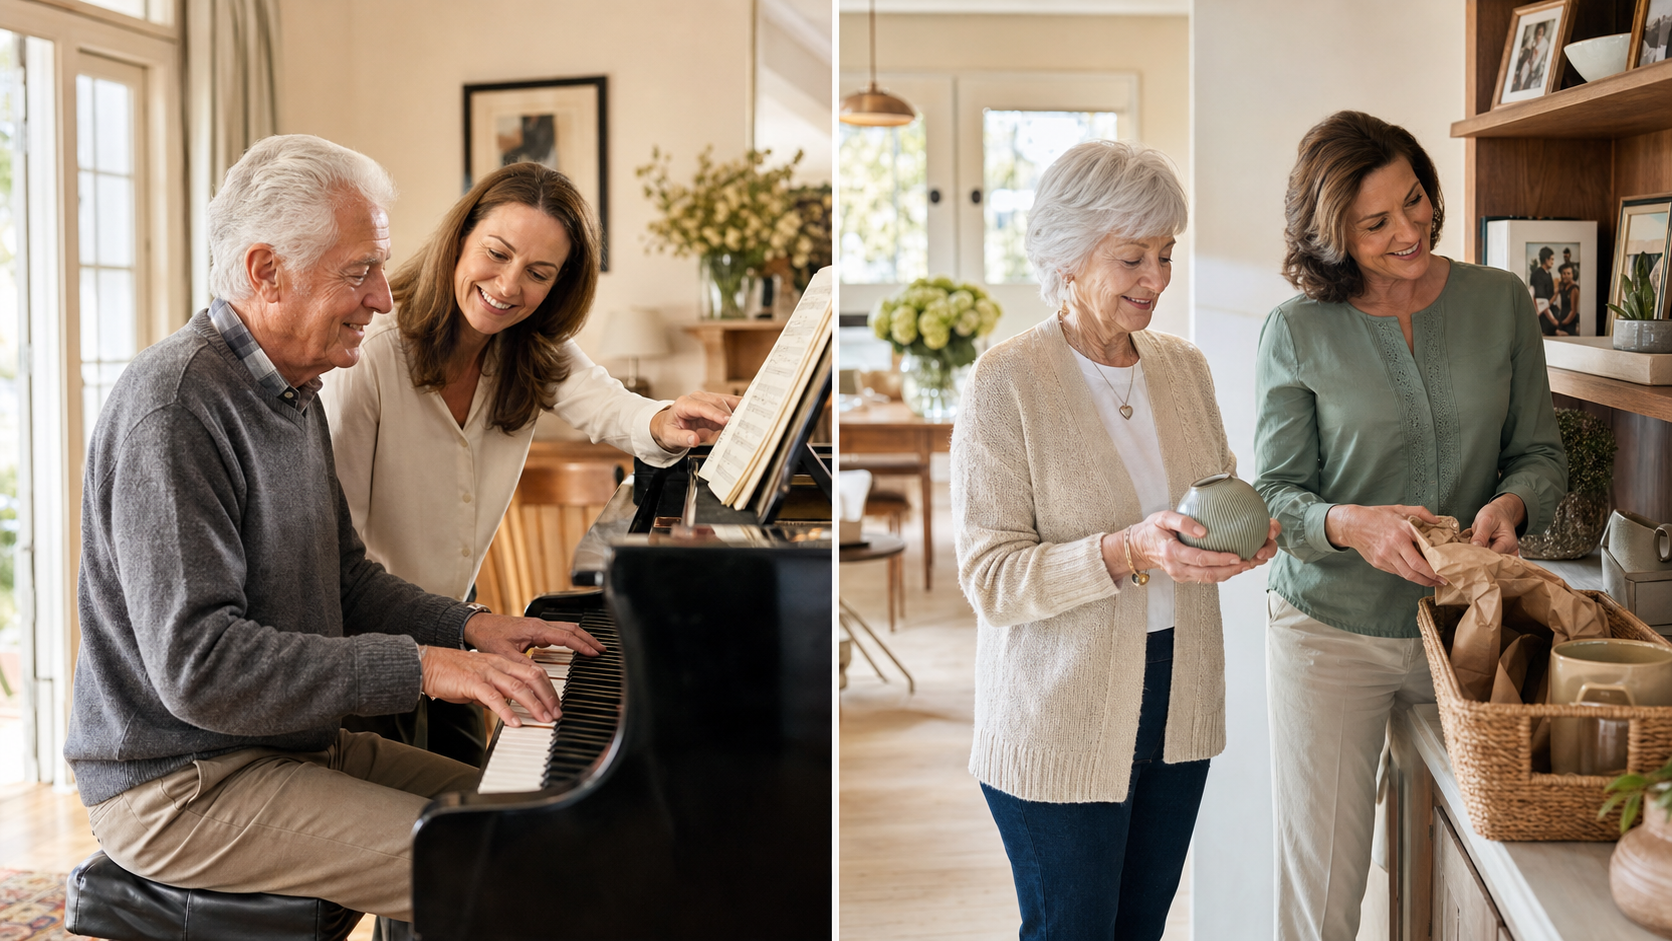
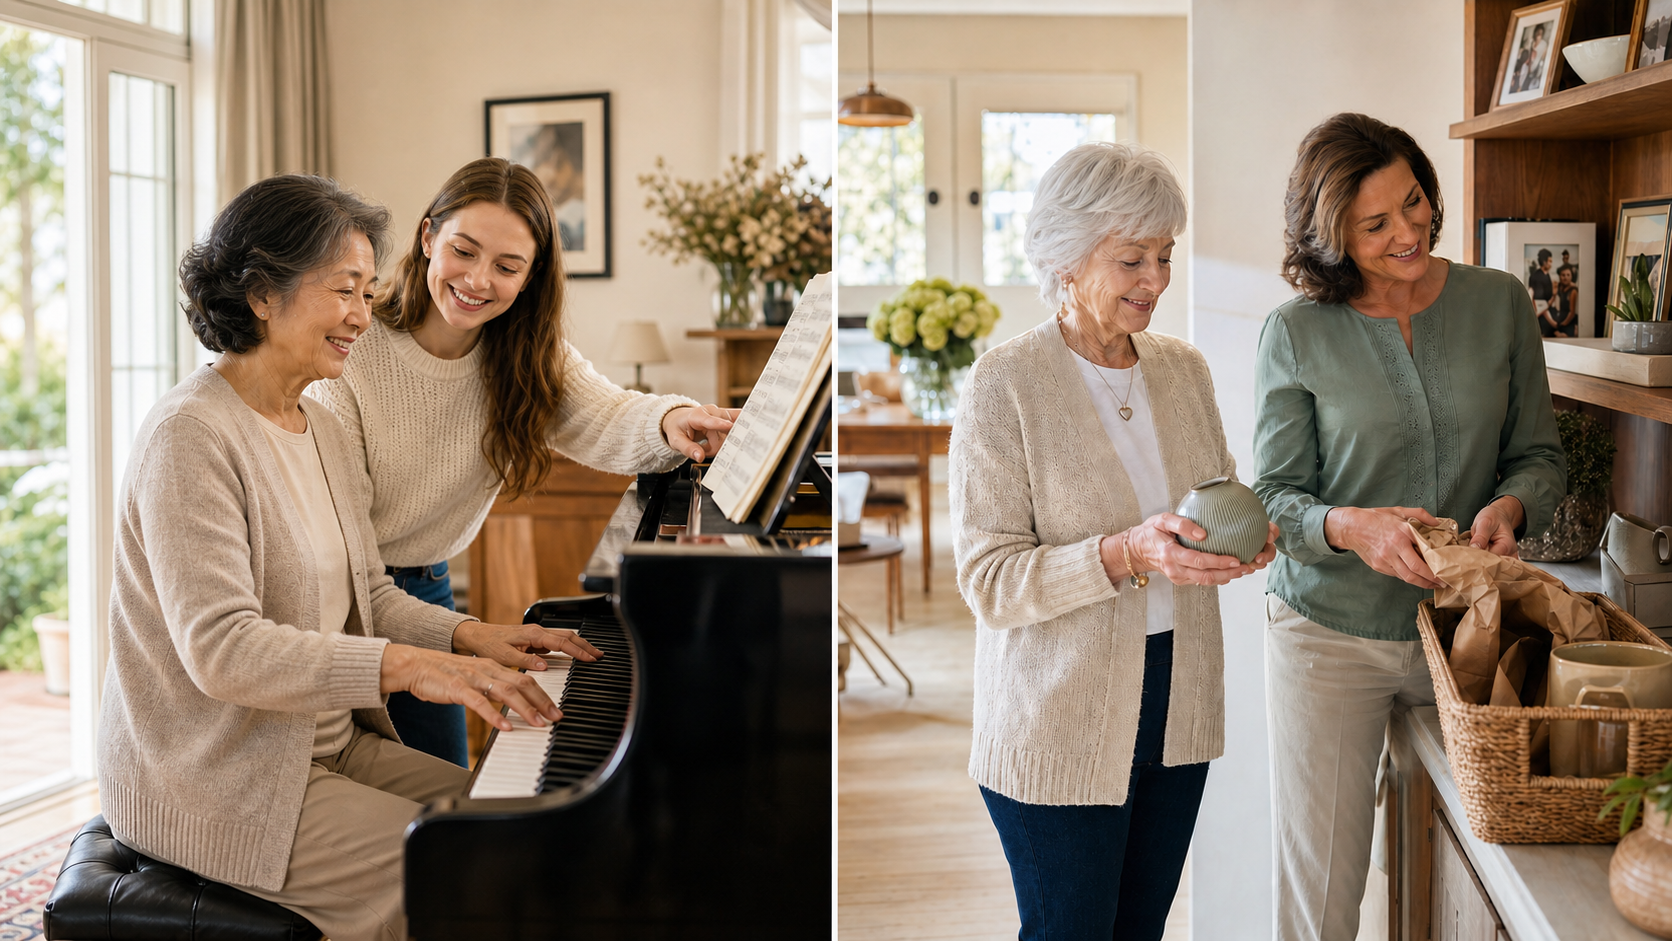
update the hero image

diff --git a/apps/web/src/app/page.tsx b/apps/web/src/app/page.tsx
@@ -153,7 +153,7 @@ export default async function HomePage({ searchParams }: HomePageProps) {
                 <CalendarDays size={22} /> Upcoming visit
               </h2>
               <p>
-                <CalendarCheck2 size={16} /> May 22, 2025
+                <CalendarCheck2 size={16} /> May 22, 2026
               </p>
               <p>
                 <ClockIcon /> 10:00 AM - 12:00 PM
@@ -285,7 +285,7 @@ export default async function HomePage({ searchParams }: HomePageProps) {
           <span>f</span>
           <span>ig</span>
           <span>in</span>
-          <p>© 2025 Golden Home Care, Inc. All rights reserved.</p>
+          <p>© 2026 Golden Home Care, Inc. All rights reserved.</p>
         </div>
       </footer>
     </main>
